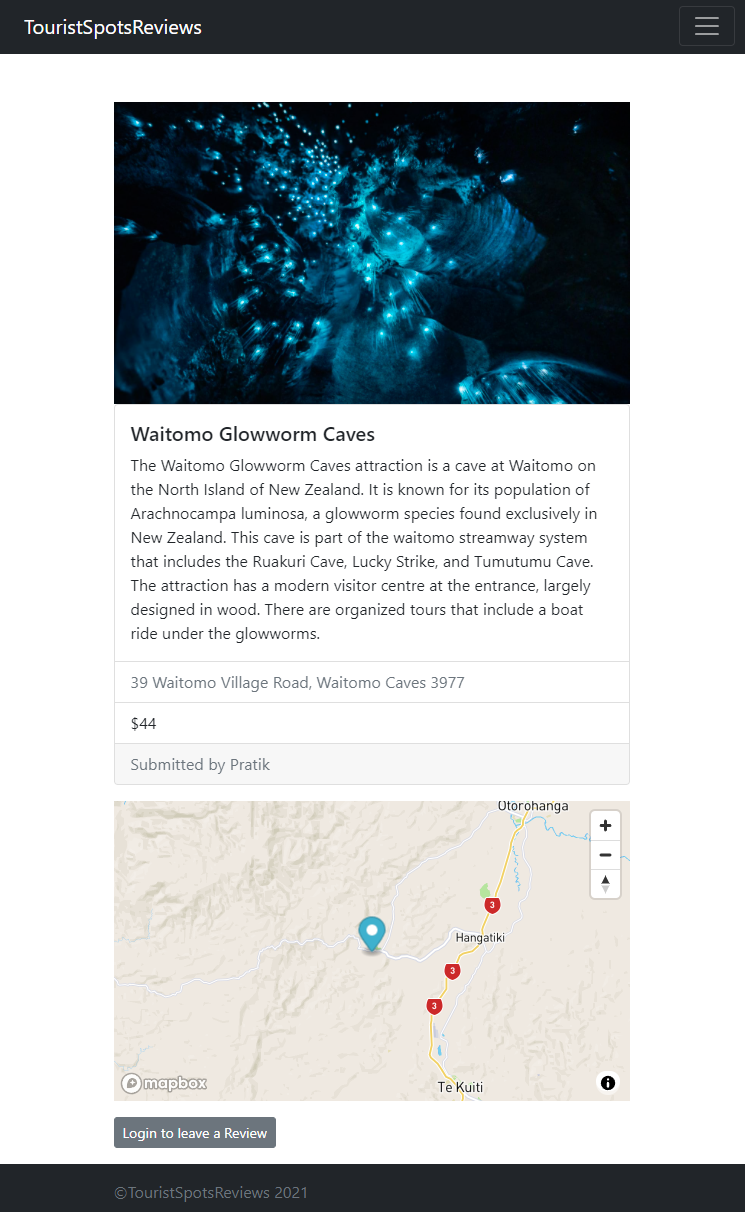
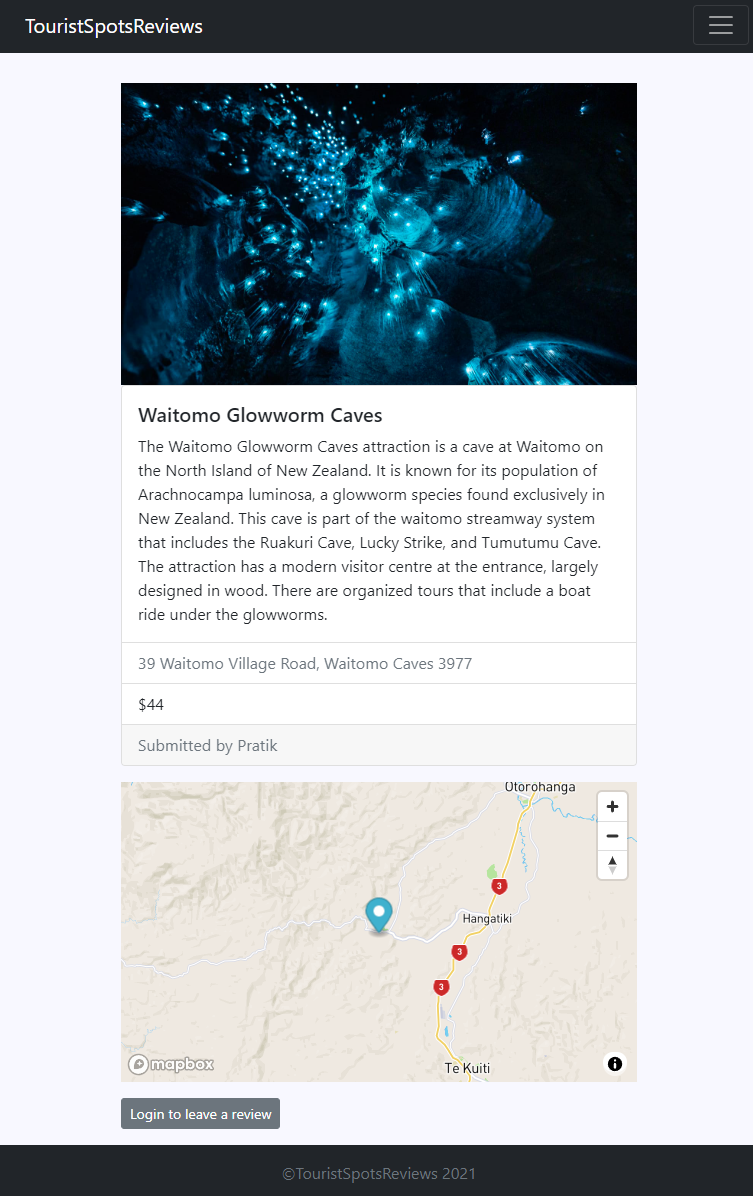
updated images and added screenshots to the readme

diff --git a/public/stylesheets/home.css b/public/stylesheets/home.css
@@ -1,7 +1,7 @@
 body {
     height: 100vh;
     background-image: linear-gradient(rgba(0, 0, 0, 0.5), rgba(0, 0, 0, 0.5)),
-    url("https://images.unsplash.com/photo-1559521783-1d1599583485?ixlib=rb-1.2.1&ixid=eyJhcHBfaWQiOjEyMDd9&auto=format&fit=crop&w=1950&q=80");
+    url("https://images.unsplash.com/photo-1547314283-befb6cc5cf29?ixlib=rb-1.2.1&ixid=MnwxMjA3fDB8MHxwaG90by1wYWdlfHx8fGVufDB8fHx8&auto=format&fit=crop&w=1950&q=80");
     background-size: cover;
     background-position: center;
     text-shadow: 0 0.05rem 0.1rem rgba(0, 0, 0, 0.5);

diff --git a/public/stylesheets/app.css b/public/stylesheets/app.css
@@ -7,3 +7,11 @@
     width: 100%;
     height: 300px;
 }
+
+body  {
+    background-color: ghostwhite;
+}
+
+.btn-light{
+    border-color: darkgrey;
+}

diff --git a/README.md b/README.md
@@ -16,8 +16,8 @@ Live Demo: https://afternoon-castle-85051.herokuapp.com/
 - Mapbox
 - Cloudinary
 
-## Installation
-Add your cloudinary, mapbox and mongoDB information to an `.env` file and a secret
+## Getting Started
+Add your cloudinary, mapbox and mongoDB information and a secret to an `.env` file
 ```
 CLOUDINARY_CLOUD_NAME=
 CLOUDINARY_KEY=
@@ -31,9 +31,10 @@ Then run on a terminal
 npm install
 node app.js
 ```
-Then visit http://localhost:3000/
+Visit http://localhost:3000/
 
 ## Screenshots
 ![All tourist spots page](/images/touristSpots.png)
 ![hobbiton page](/images/hobbiton.PNG)
 ![caves page](/images/caves.PNG)
+![login page](/images/login.PNG)
